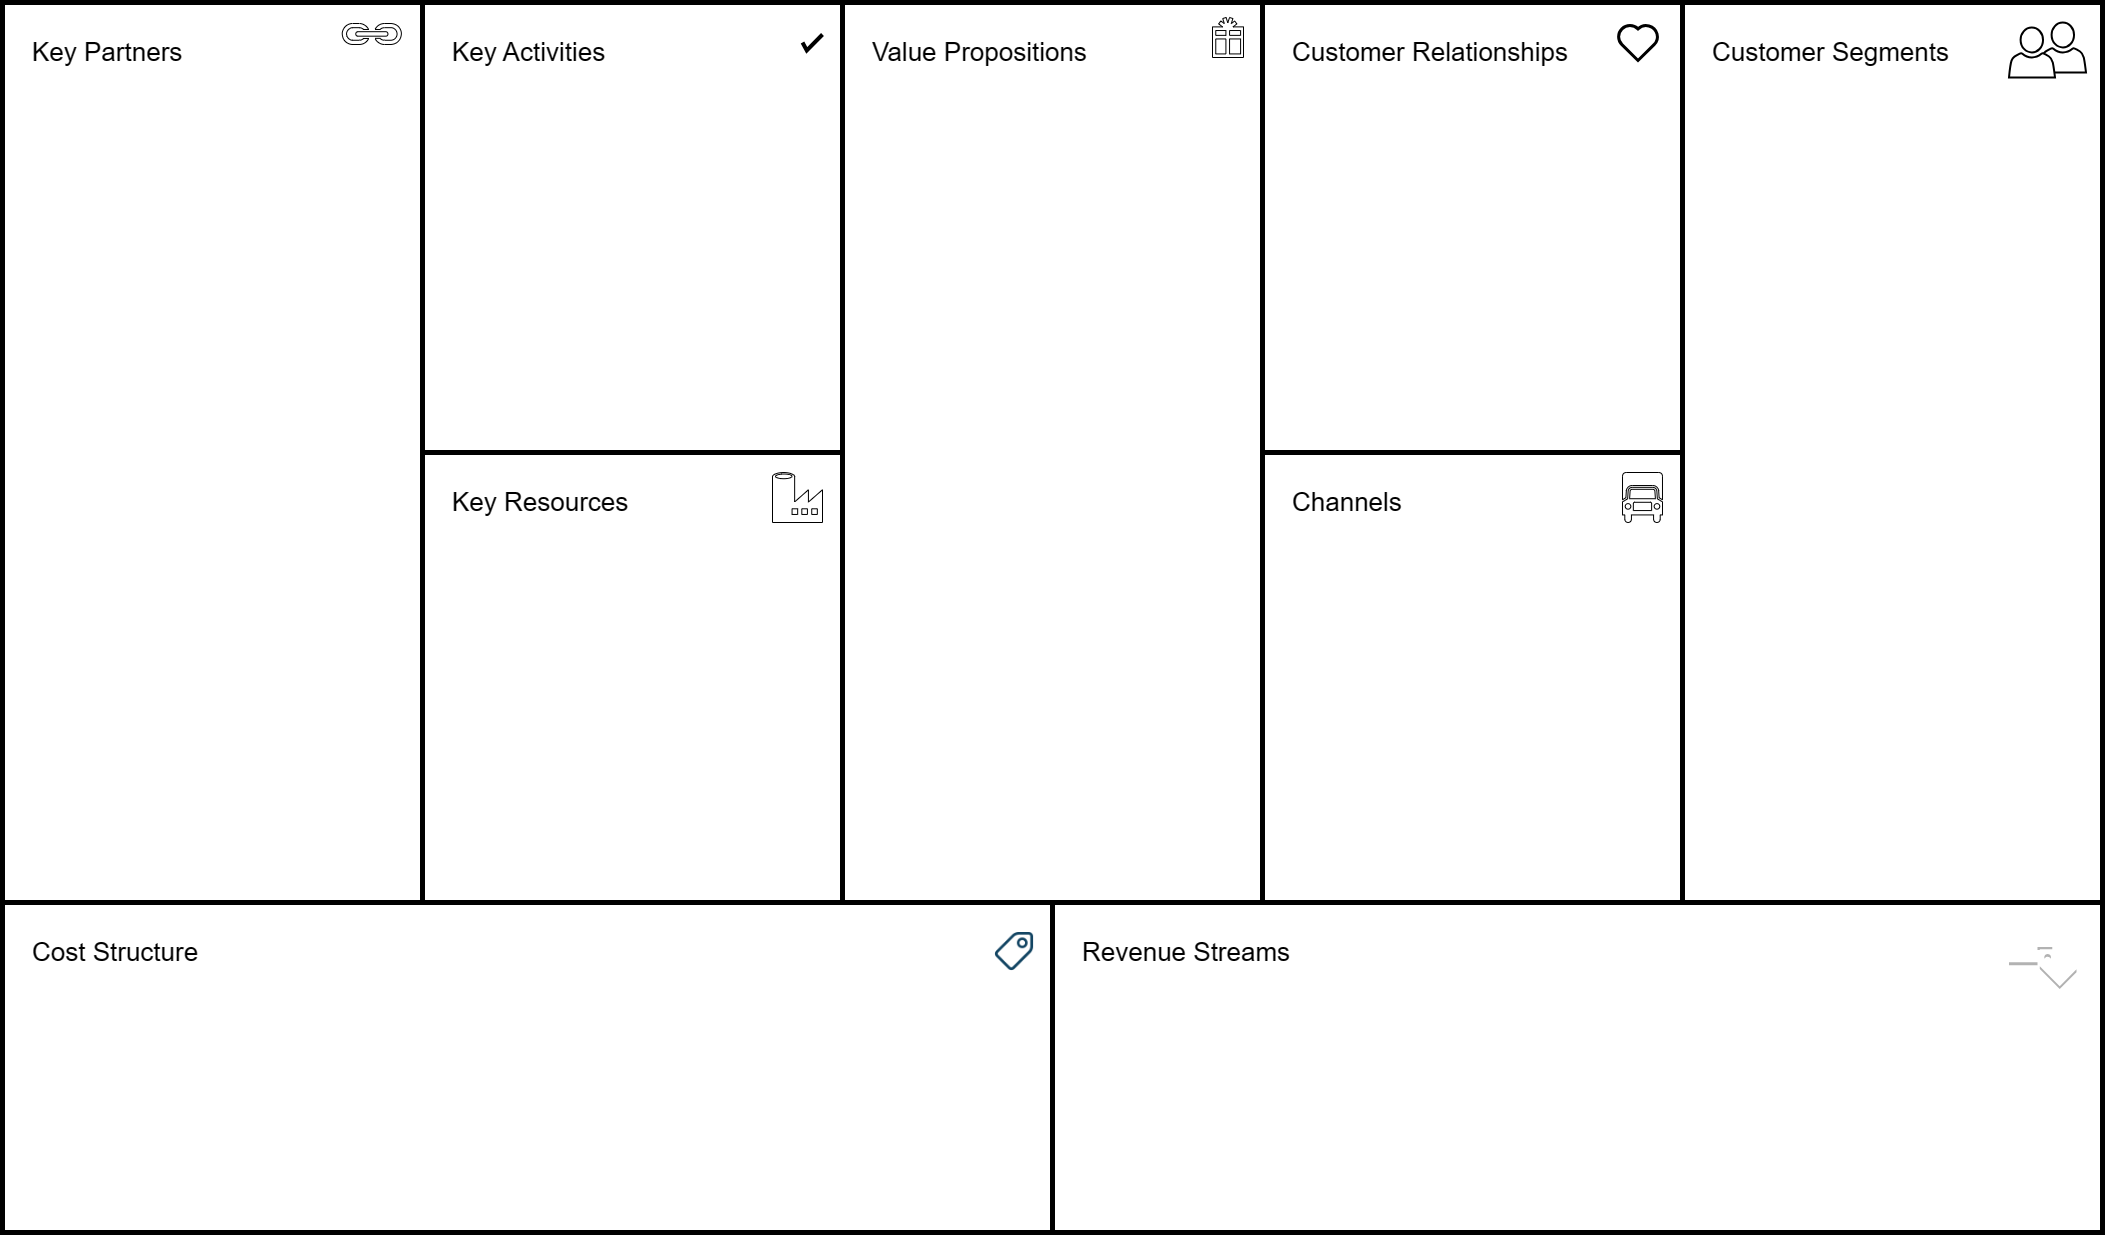
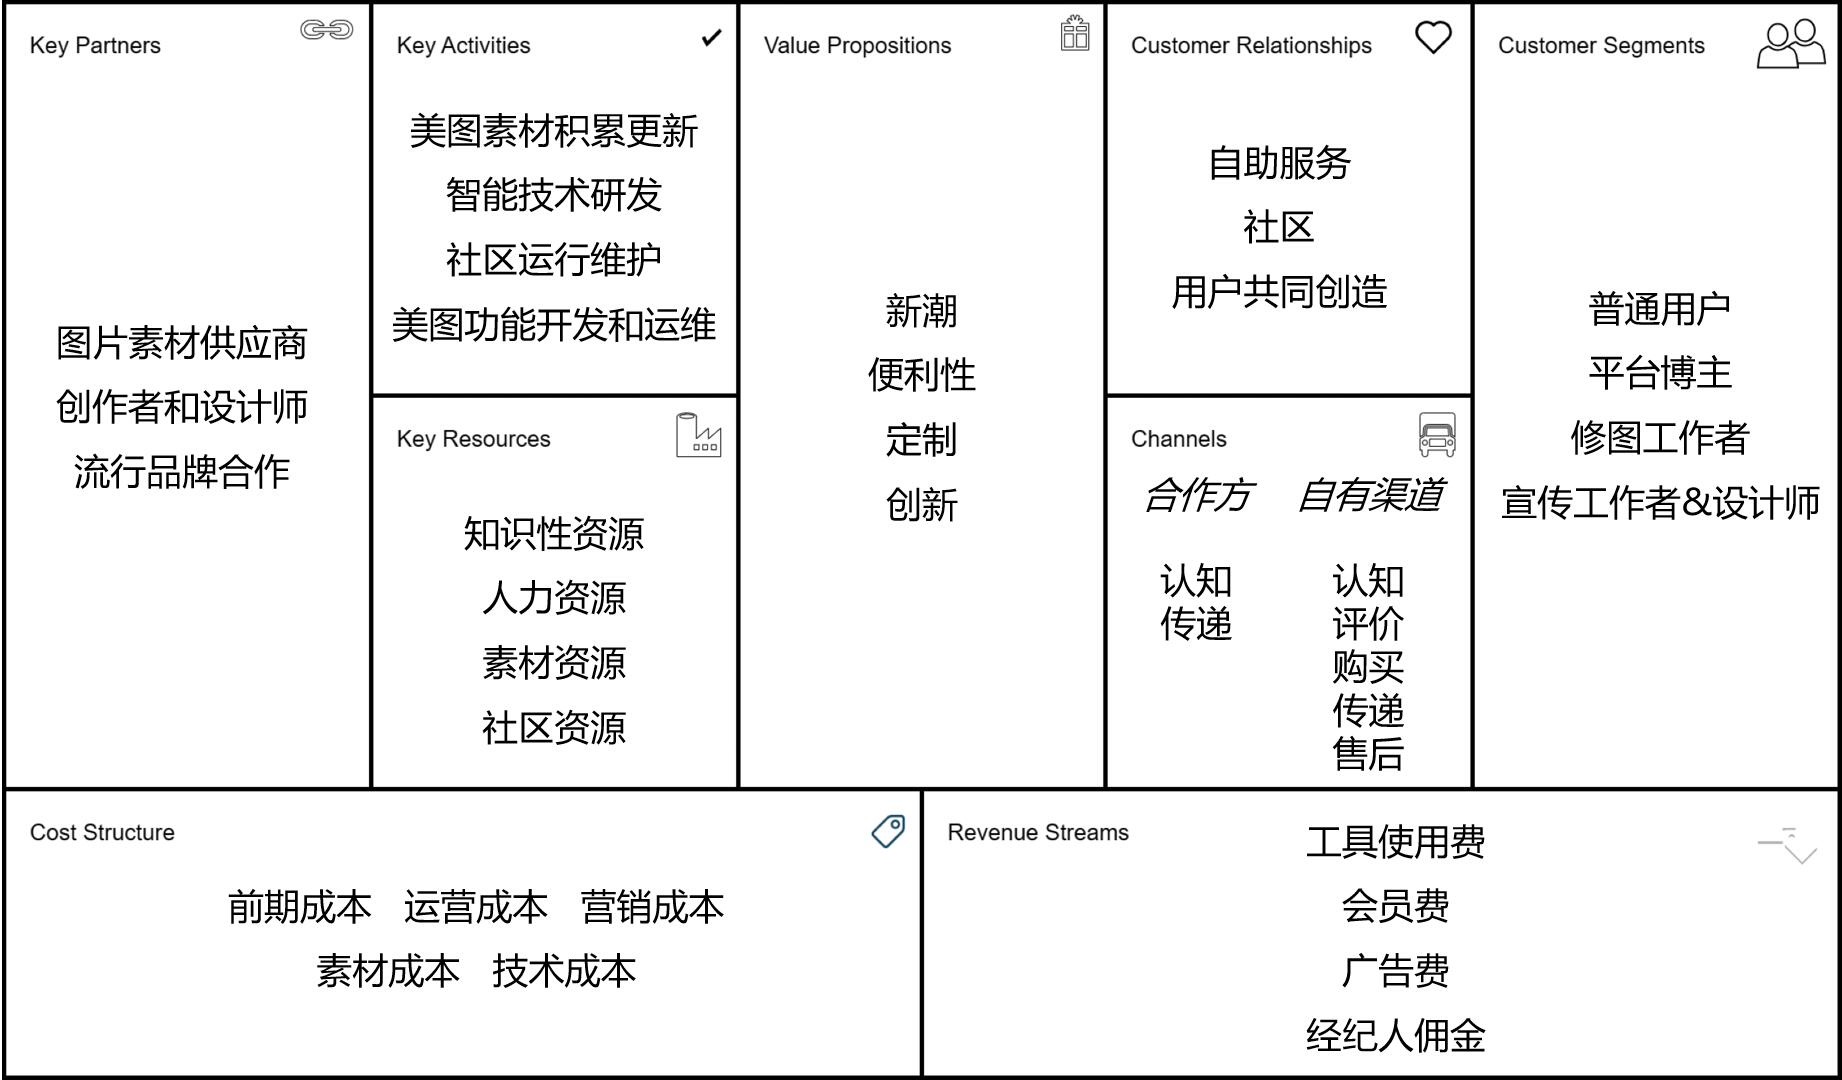
finish relation

diff --git a/Lab1.md b/Lab1.md
@@ -59,6 +59,8 @@ Adobe Photoshop，通常简称为Photoshop，是由Adobe公司开发的一款图
 
 #### 2.2 度量数值
 
+本文档共包含了36个要点与14条关联关系。平均要点数量为 4 个。
+
 #### 2.3 要点分析
 
 ##### 2.3.1 客户细分
@@ -141,7 +143,7 @@ Adobe Photoshop，通常简称为Photoshop，是由Adobe公司开发的一款图
   美图秀秀上的一些特定素材与模板内容，需要开通会员才能使用。
 3. 广告费
 
-  美图秀秀通过允许企业在其社区中投放广告以获取广告费。
+  美图秀秀通过允许企业在其社区中投放广告以获取广告费，该部分收入为美图秀秀主要的收入来源。
 4. 经纪人佣金
 
   美图秀秀为兼职或专职的修图或设计人员提供发布接单的平台，同时也向发布接单的用户收取一定的平台费用。
@@ -159,13 +161,13 @@ Adobe Photoshop，通常简称为Photoshop，是由Adobe公司开发的一款图
   美图秀秀拥有大量素材，字体以及模版的版权。大量优质素材能够吸引用户到美图秀秀上进行图片编辑与美化。同时，这些高质量素材，也是美图秀秀开发智能AI算法的基础。
 4. 社区资源
 
-  美图秀秀拥有良好的社区氛围，积累了大量活跃的高质量博主以及大量活跃的普通用户。在社区中，用户进行分享自己创作内容以及剪辑攻略。同时美图秀秀会推出主题活动挑战赛，如#我和家乡有个约会 和#MT城市环游记，在这些挑战赛中，美图秀秀官方发布共创素材和共创模版，用户进行创作，然后在美图秀秀或其他社交媒体上进行分享。良好的社区能为美图秀秀引流，还保证了美图秀秀用户的活跃度。良好的社区是美图秀秀保持优势地位的核心竞争力。
+  美图秀秀拥有良好的社区氛围，积累了大量活跃的高质量博主以及大量活跃的普通用户。在社区中，用户进行分享自己创作内容以及剪辑攻略。同时美图秀秀会推出主题活动挑战赛，如“我和家乡有个约会”“MT城市环游记”等，在这些挑战赛中，美图秀秀官方发布共创素材和共创模版，用户进行创作，然后在美图秀秀或其他社交媒体上进行分享。良好的社区能为美图秀秀引流，还保证了美图秀秀用户的活跃度。良好的社区是美图秀秀保持优势地位的核心竞争力。
 
 ##### 2.3.7 关键业务
 
 1. 美图素材积累更新
 
-  美图秀秀需要不断积累高质量的图文素材、模板素材等等，来保证用户在美图秀秀上进行图片编辑与美化时，能够有足够的素材可供选择。并且，当今时代发展日新月异，用户的美图需求也日益增加，变得越来越“刁钻”。美图秀秀需要紧跟时代潮流，贴合当下年轻风潮和热点内容更新自己的素材库。同时，这些素材也是美图秀秀的内部技术研发提供了基础的数据集。
+  美图秀秀需要不断积累高质量的图文素材、模板素材等等，来保证用户在美图秀秀上进行图片编辑与美化时，能够有足够的素材可供选择。当今时代发展日新月异，用户的美图需求也日益增加，变得越来越“刁钻”。美图秀秀需要紧跟时代潮流，贴合当下年轻风潮和热点内容更新自己的素材库。同时，这些素材也为美图秀秀的内部技术研发提供了基础的数据集。
 2. 智能技术研发
 
   美图秀秀公司自身设立了“美图影像研究院”，致力于计算机视觉、深度学习、计算机图形学等人工智能相关领域的研发，以核心技术创新推动业务发展，不断强化美图秀秀的功能，对一些AI扩图、AI设计等更具创新性、智能性的功能进行完善。自2010年美图影像研究院（MT Lab）成立起，美图公司持续进行AI领域的探索与布局，目前美图公司已注册451项专利，持有192项软件产品著作权，在AI领域取得多项荣誉和突破。
@@ -174,7 +176,7 @@ Adobe Photoshop，通常简称为Photoshop，是由Adobe公司开发的一款图
   以图片为主的社区难免会出现一些有伤风化的内容，如一些用户看似分享，实则是拿自身的美图作卖点，打“擦边球”；而又有一些用户则是任意发泄自身的情绪，对其他用户针锋相对。美图秀秀需要保证社区的良好氛围，对社区中的内容进行审核，并且对社区讨论风气加以管控。同时，美图秀秀需要对社区中的用户进行管理，对社区中的用户进行分类，对不同类型的用户进行不同的运营策略，保证社区中的用户活跃度。
 4. 美图功能开发和运维
 
-  作为一款以图片美化为基础功能的软件，美图秀秀需要对它这一基础功能不断进行维护。美图秀秀围绕着这一基础功能，还在不断开发新的特殊功能，从而保证美图秀秀能够满足用户的需求。根据用户反馈的一些bug或功能建议，美图秀秀需要不断进行调整，进一步完善功能，提高用户体验。
+  作为一款以图片美化为基础功能的软件，美图秀秀需要对它这一基础功能不断进行维护。美图秀秀围绕着这一基础功能，还在不断开发新的特殊功能，从而保证美图秀秀能够满足用户日益增长的需求。根据用户反馈的一些bug或功能建议，美图秀秀需要不断进行调整，进一步完善功能，提高用户体验。
 
 ##### 2.3.8 重要合作
 
@@ -201,7 +203,7 @@ Adobe Photoshop，通常简称为Photoshop，是由Adobe公司开发的一款图
   素材成本包括，商用素材，模板，字体和图片的使用费。
 4. 技术成本
 
-  技术成本包括，图片美化算法的开发，图像识别算法的开发，AI绘画与AI设计等AI工具的研发。2023上半年研发投入高达2.93亿元，同比增长了10.8%。
+  技术成本包括，图片美化算法的开发，图像识别算法的开发，AI绘画与AI设计等AI工具的研发。2023上半年美图秀秀企业研发投入高达2.93亿元，同比增长了10.8%。
 5. 营销成本
 
   营销成本包括，在社交媒体上投放广告的费用，以及请平台博主进行推广的推广费。
@@ -221,13 +223,13 @@ Adobe Photoshop，通常简称为Photoshop，是由Adobe公司开发的一款图
 
 1. 素材资源(2.3.6.3)-美图素材积累更新(2.3.7.1)-素材成本(2.3.9.3)的联系
 
-    为了保证素材资源的充足，美图秀秀需要不断和积累和更新时下最年轻风潮和热门的素材，而收集的素材，需要大量的使用费用，构成了素材成本的主题。
+    为了保证素材资源的充足，美图秀秀需要不断和积累和更新时下最年轻风潮和热门的素材，而收集的素材，需要一定的版权费等支出，构成了素材成本的主要部分。
 2. 知识性资源(2.3.6.1)-智能技术研发(2.3.7.2)-技术成本(2.3.9.4)的联系
 
-    为了满足用户使用需求和提供丰富的使用功能，美图秀秀需要大量的AI算法和图像算法，这些算法需要大量的研发人员和研发投入，这些构成了技术成本。
+    为了满足用户使用需求和提供丰富的使用功能，美图秀秀需要大量的AI算法和图像算法，这些算法需要大量的研发人员和研发投入，这些是技术成本的主要部分。
 3. 社区资源(2.3.6.4)-社区运行和维护(2.3.7.3)-运营成本(2.3.9.2)的联系
 
-    为了保持美图秀秀社区的活跃和正向发展，美图秀秀开展了大量运营活动和主题挑战对社区氛围进行维护，这些投入构成了运营成本的部分。
+    为了保持美图秀秀社区的活跃和正向发展，美图秀秀开展了大量运营活动和主题挑战活动，对社区氛围进行维护，这部分投入属于运营成本的部分。
 
 #### 3.3 客户细分—收入来源的联系
 
@@ -242,34 +244,30 @@ Adobe Photoshop，通常简称为Photoshop，是由Adobe公司开发的一款图
 
 1. 图片素材供应商(2.3.8.1)-素材成本(2.3.9.3)的联系
 
-    美图需要定期为图片素材供应商付出成本，以保证图片素材的即时和充足供应。
+    美图需要定期为图片素材供应商支付使用费用，以保证图片素材的即时充足供应。
 2. 流行品牌合作(2.3.8.3)-营销成本(2.3.9.5)的联系
 
-    美图秀秀和部分流行品牌达成合作，获得了大量线上和线下流量，同时也需要付出一点的营销成本。
+    美图秀秀和部分流行品牌达成合作，获得了大量线上和线下流量，同时也需要付出一定的营销成本。
 
 #### 3.5 客户关系-成本结构的联系
 
 1. 自助服务(2.3.4.1)-运营成本(2.3.9.2)、技术成本(2.3.9.4)的联系
 
     美图秀秀所提供的大量自助服务，主要包括AI平面设计，需要服务器支持与技术支撑。
-
 2. 用户共同创造(2.3.4.3)-运营成本(2.3.9.2)的联系
 
     为了保证用户共同创造，美图秀秀官方运营了很多主题活动，这些主题活动需要一定的运营费用。
 
-#### 3.6 渠道通路-核心资源的联系
+#### 3.6 渠道通路-核心资源-重要合作的联系
 
-1. 合作方渠道(2.3.3.1)-图片素材提供商(2.3.7.1)、创作者和设计师(2.3.7.2)的联系
+1. 合作方渠道(2.3.3.1)-素材资源(2.3.6.3)-图片素材提供商(2.3.7.1)、创作者和设计师(2.3.7.2)的联系
 
-   美图秀秀通过和图片素材商合作可以丰富平台上的可购买素材和模板，提供了更多的购买内容；通过和设计师，创作者的合作，可以更好地提升美图秀秀社区的活跃度。
+   美图秀秀通过和图片素材商合作可以丰富平台上的可购买素材和模板，丰富了自身的素材资源；通过和设计师、创作者的合作，可以更好地提升美图秀秀社区的活跃度，这些设计师、创作者同时也丰富了美图秀秀素材资源库。
+2. 合作方渠道(2.3.3.1)-素材资源(2.3.6.3)-流行品牌合作(2.3.7.3)的联系
 
-#### 3.7 渠道通路-重要合作的联系
+   美图秀秀与一些知名品牌进行合作推广，在认知阶段和传递阶段等发挥作用，流行品牌也提供了相应的素材主题等资源给美图秀秀。
 
-1. 合作方渠道(2.3.3.1)-流行品牌合作(2.3.7.3)的联系
-
-   美图秀秀通过与一些知名品牌的合作，这些合作方知名度高，具有较大影响力，美图秀秀通过与这些合作方进行合作推广，提高自身知名度。
-
-#### 3.8 价值主张-重要合作的联系
+#### 3.7 价值主张-重要合作的联系
 
 1. 新潮(2.3.2.1)、创新(2.3.2.4)-流行品牌合作(2.3.8.3)的联系
 
